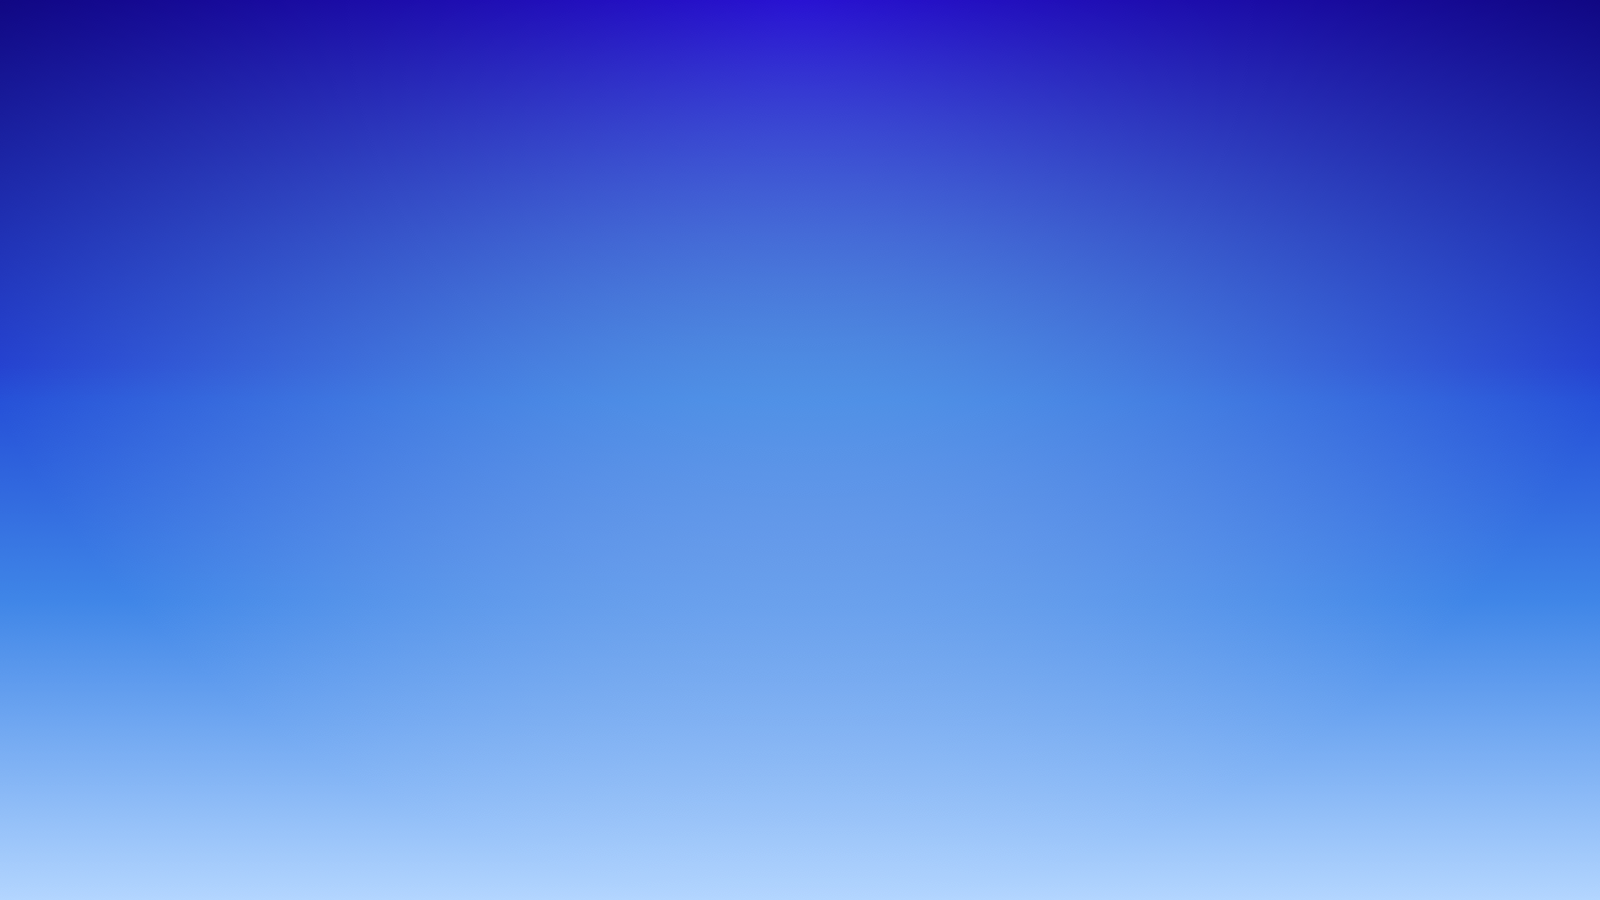
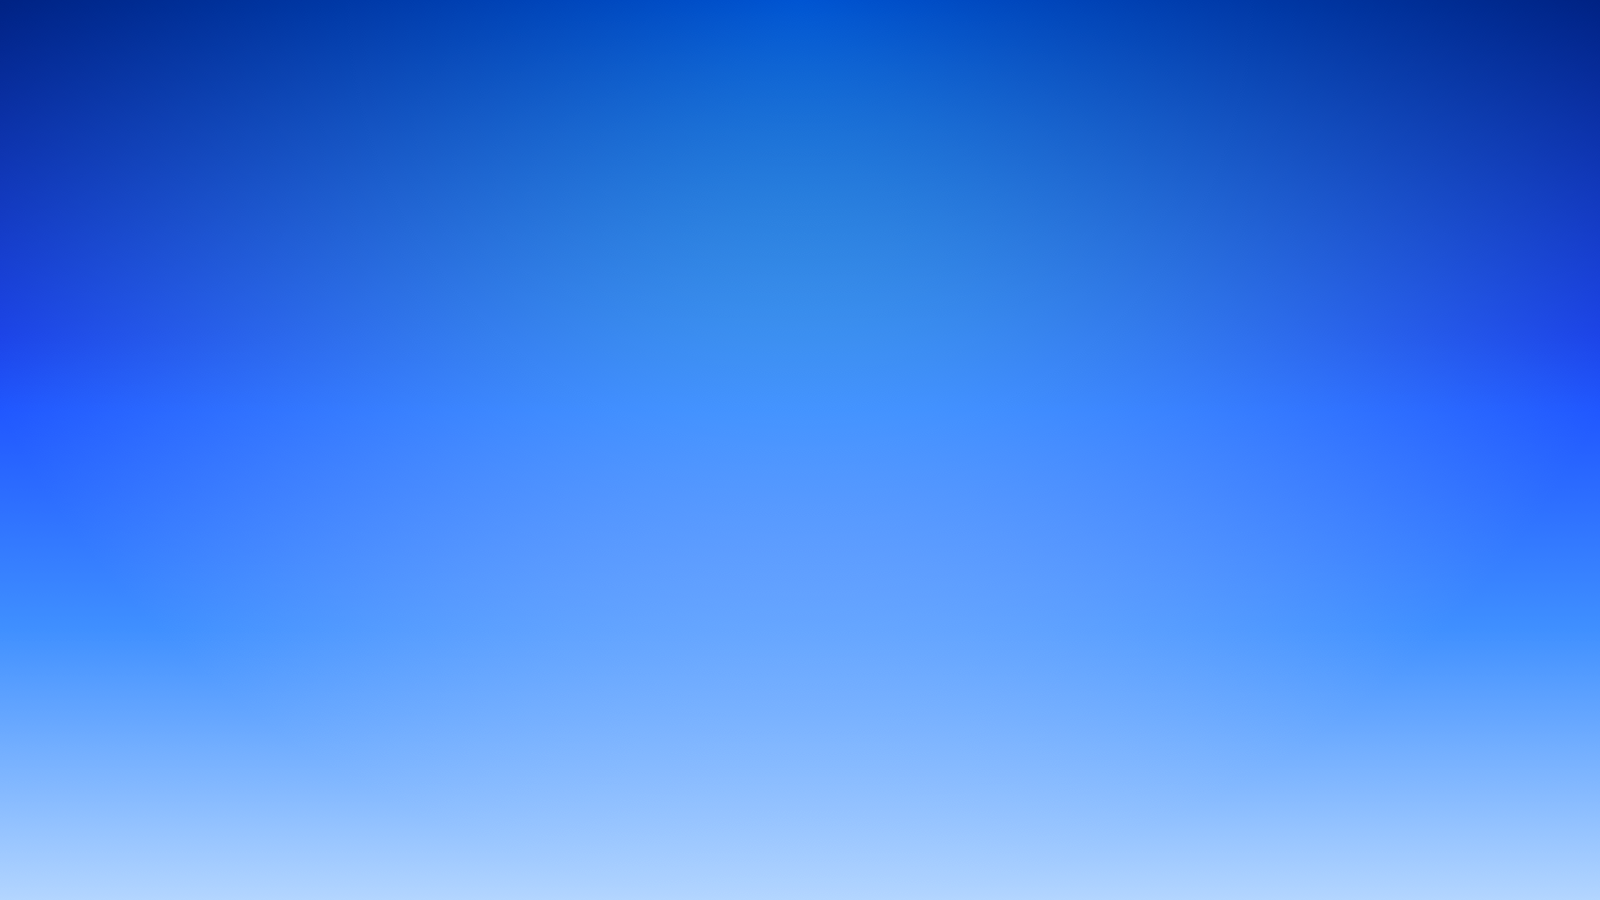
Update to the Sky

diff --git a/Website/css.css b/Website/css.css
@@ -21,6 +21,9 @@ body, html {
   height: 100%;
   min-width: 100%;
   min-height: 100%;
+  /**/
+  max-height: 100%;
+  overflow: hidden;
   font-size: 16px; }
 
 /*--------------------------------------------------
@@ -108,83 +111,63 @@ body, html {
 /*--------------------------------------------------
 	Falling Dodge
 --------------------------------------------------*/
+body {
+  background-image: -o-linear-gradient(89deg, #cde4ff 0%, #457dcc 54%, #1b0da7 100%);
+  background-image: -moz-linear-gradient(89deg, #cde4ff 0%, #457dcc 54%, #1b0da7 100%);
+  background-image: -ms-linear-gradient(89deg, #cde4ff 0%, #457dcc 54%, #1b0da7 100%);
+  background-image: linear-gradient(-1deg, #cde4ff 0%, #457dcc 54%, #1b0da7 100%); }
+
 .container {
-  min-height: 100%;
-  min-width: 100%;
-  background-image: url("img/Sky.png");
-  background-position: center;
-  background-size: cover;
-  /*
-  	.blue-back {
-  		position: absolute;
-  		font-size: 0;
-  		display: inline-block;
-  
-  		width: 100%;
-  		height: 100%;
-  		background-image: -o-linear-gradient(89deg, #CDE4FF 0%, #4C8BE5 55%, #1B0DA7 100%);
-  		background-image: -moz-linear-gradient(89deg, #CDE4FF 0%, #4C8BE5 55%, #1B0DA7 100%);
-  		background-image: -ms-linear-gradient(89deg, #CDE4FF 0%, #4C8BE5 55%, #1B0DA7 100%);
-  		background-image: linear-gradient(-1deg, #CDE4FF 0%, #4C8BE5 55%, #1B0DA7 100%);
-  	}
-  	.gray-back {
-  		position: absolute;
-  		font-size: 0;
-  		display: inline-block;
-  
-  		width: 100%;
-  		height: 100%;
-  		background-image: -o-radial-gradient(50% 100%, rgba(255,255,255,0.50) 0%, rgba(0,0,0,0.50) 100%);
-  		background-image: -moz-radial-gradient(50% 100%, rgba(255,255,255,0.50) 0%, rgba(0,0,0,0.50) 100%);
-  		background-image: -ms-radial-gradient(50% 100%, rgba(255,255,255,0.50) 0%, rgba(0,0,0,0.50) 100%);
-  		background-image: radial-gradient(50% 100%, rgba(255,255,255,0.50) 0%, rgba(0,0,0,0.50) 100%);
-  		@include opacity(0.5);
-  	}
-  */ }
-  .container .logo {
+  display: block;
+  z-index: 1;
+  height: 100%;
+  width: 100%;
+  overflow: scroll; }
+  .container .main-content {
     display: block;
-    width: 512px;
-    margin: 0 auto; }
-  .container .super-title {
+    position: relative;
+    z-index: 100;
+    height: 100%;
+    width: 100%;
+    min-width: 100%;
+    min-height: 100%; }
+    .container .main-content .logo {
+      display: block;
+      min-width: 256px;
+      width: 40%;
+      max-width: 512px;
+      margin: 0 auto; }
+    .container .main-content .super-title {
+      display: block;
+      margin-top: -40px;
+      font-family: "open sans", "Lato", "Segoe UI", sans-serif;
+      font-weight: 300;
+      font-size: 24px;
+      color: #f7f7f7;
+      text-align: center; }
+    .container .main-content .super-description {
+      display: block;
+      margin-top: 18px;
+      font-family: "open sans", "Lato", "Segoe UI", sans-serif;
+      font-weight: 300;
+      font-size: 18px;
+      color: #f7f7f7;
+      text-align: center; }
+  .container .trailer {
     display: block;
-    margin-top: -40px;
-    font-family: "Lato", "Segoe UI", sans-serif;
-    font-weight: 300;
-    font-size: 36px;
-    color: #f7f7f7;
-    text-align: center; }
-  .container .super-description {
-    display: block;
-    margin-top: 32px;
-    font-family: "Lato", "Segoe UI", sans-serif;
-    font-weight: 300;
-    font-size: 26px;
-    color: #f7f7f7;
-    text-align: center; }
+    margin: 82px auto;
+    width: 640px;
+    height: 360px;
+    background-color: #252525; }
   .container .about {
     display: block;
     margin-top: 2rem;
-    font-family: "Lato", "Segoe UI", sans-serif;
+    font-family: "open sans", "Lato", "Segoe UI", sans-serif;
     font-size: 1.25rem;
     font-weight: 300;
     color: #f7f7f7;
     text-align: center; }
     .container .about a {
-      color: #00BFFF;
+      color: #FFCC7A;
+      text-shadow: 0 1px 2px #478ED6;
       text-decoration: underline; }
-
-.container:before {
-  content: "";
-  position: absolute;
-  display: block;
-  width: 100%;
-  height: 100%;
-  background-image: url("img/Stars.png");
-  background-size: 271px 120px;
-  background-repeat: repeat;
-  filter: alpha(opacity=0.5);
-  -moz-opacity: 0.5;
-  opacity: 0.5; }
-
-::selection {
-  background-color: transparent; }

diff --git a/Website/css.scss b/Website/css.scss
@@ -22,6 +22,11 @@ body, html {
 	height: 100%;
 	min-width: 100%;
 	min-height: 100%;
+
+	/**/
+	max-height: 100%;
+	overflow: hidden;
+
 	font-size: 16px;
 }
 
@@ -164,73 +169,88 @@ $content-max-width: 960px;
 /*--------------------------------------------------
 	Falling Dodge
 --------------------------------------------------*/
-$Lato: 'Lato', 'Segoe UI', sans-serif;
+$Lato: 'open sans', 'Lato', 'Segoe UI', sans-serif;
+
+
+
+body {
+
+background-image: -o-linear-gradient(89deg, #CDE4FF 0%, #457DCC 54%, #1B0DA7 100%);
+background-image: -moz-linear-gradient(89deg, #CDE4FF 0%, #457DCC 54%, #1B0DA7 100%);
+background-image: -ms-linear-gradient(89deg, #CDE4FF 0%, #457DCC 54%, #1B0DA7 100%);
+background-image: linear-gradient(-1deg, #CDE4FF 0%, #457DCC 54%, #1B0DA7 100%);
+
+}
+
 
 
 .container {
-	min-height: 100%;
-	min-width: 100%;
 
-	background-image: url('img/Sky.png');
-	background-position: center;
-	background-size: cover;
-/*
-	.blue-back {
-		position: absolute;
-		font-size: 0;
-		display: inline-block;
+	display: block;
+	z-index: 1;
 
-		width: 100%;
+	height: 100%;
+	width: 100%;
+
+	overflow: scroll;
+
+
+
+
+	.main-content {
+
+		display: block;
+		position: relative;
+		z-index: 100;
+
 		height: 100%;
-		background-image: -o-linear-gradient(89deg, #CDE4FF 0%, #4C8BE5 55%, #1B0DA7 100%);
-		background-image: -moz-linear-gradient(89deg, #CDE4FF 0%, #4C8BE5 55%, #1B0DA7 100%);
-		background-image: -ms-linear-gradient(89deg, #CDE4FF 0%, #4C8BE5 55%, #1B0DA7 100%);
-		background-image: linear-gradient(-1deg, #CDE4FF 0%, #4C8BE5 55%, #1B0DA7 100%);
-	}
-	.gray-back {
-		position: absolute;
-		font-size: 0;
-		display: inline-block;
-
 		width: 100%;
-		height: 100%;
-		background-image: -o-radial-gradient(50% 100%, rgba(255,255,255,0.50) 0%, rgba(0,0,0,0.50) 100%);
-		background-image: -moz-radial-gradient(50% 100%, rgba(255,255,255,0.50) 0%, rgba(0,0,0,0.50) 100%);
-		background-image: -ms-radial-gradient(50% 100%, rgba(255,255,255,0.50) 0%, rgba(0,0,0,0.50) 100%);
-		background-image: radial-gradient(50% 100%, rgba(255,255,255,0.50) 0%, rgba(0,0,0,0.50) 100%);
-		@include opacity(0.5);
+		min-width: 100%;
+		min-height: 100%;
+		
+		.logo {
+			display: block;
+			min-width: 256px;
+			width: 40%;
+			max-width: 512px;
+			margin: 0 auto;
+		}
+
+		.super-title {
+			display: block;
+			margin-top: -40px;
+
+			font-family: $Lato;
+			font-weight: 300;
+			font-size: 24px;
+			color: #f7f7f7;
+			text-align: center;
+		}
+		.super-description {
+			display: block;
+			margin-top: 18px;
+
+			font-family: $Lato;
+			font-weight: 300;
+			font-size: 18px;
+			color: #f7f7f7;
+			text-align: center;
+		}
 	}
-*/
 
 
-	.logo {
+
+
+
+	.trailer {
 		display: block;
-		width: 512px;
-		margin: 0 auto;
+		margin: 82px auto;
+
+		width: 640px;
+		height: 360px;
+
+		background-color: #252525;
 	}
-
-	.super-title {
-		display: block;
-		margin-top: -40px;
-
-		font-family: $Lato;
-		font-weight: 300;
-		font-size: 36px;
-		color: #f7f7f7;
-		text-align: center;
-	}
-	.super-description {
-		display: block;
-		margin-top: 32px;
-
-		font-family: $Lato;
-		font-weight: 300;
-		font-size: 26px;
-		color: #f7f7f7;
-		text-align: center;
-	}
-
-
 
 
 
@@ -251,34 +271,10 @@ $Lato: 'Lato', 'Segoe UI', sans-serif;
 		text-align: center;
 
 		a {
-			color: #00BFFF;
+			color: #FFCC7A;
+			text-shadow: 0 1px 2px #478ED6;
 			text-decoration: underline;
-		}
-		a:hover {
-
 		}
 	}
 }
 
-
-.container:before {
-	content: "";
-
-	position: absolute;
-	display: block;
-	width: 100%;
-	height: 100%;
-
-	background-image: url('img/Stars.png');
-	background-size: (542px)/2 (240px)/2;
-	background-repeat: repeat;
-
-	@include opacity(0.5);
-
-}
-
-
-
-::selection {
-	background-color: transparent;
-}

diff --git a/Website/index.html b/Website/index.html
@@ -6,31 +6,33 @@
 
 	<link rel="stylesheet" type="text/css" href="css.css">
 	<script type="text/javascript" src="http://code.jquery.com/jquery-2.1.1.min.js"></script>
+	<link href='http://fonts.googleapis.com/css?family=Open+Sans:300,400,700' rel='stylesheet' type='text/css'>
 </head>
 <body>
 
-<div class="container">
-	
-	<div class="blue-back"></div>
-	<div class="gray-back"></div>
+	<div class="container">
+		
+		<div class="main-content">
+			<img src="img/Main-Logo.png" class="logo">
+			<h1>
+				<span class="super-title">El mejor juego para tu dispositivo con Windows</span>
+				<span class="super-description">¡Ayúdanos a llevar a Sam con vida a casa!</span>
+			</h1>
+		</div>
 
-	<div class="main-content">
-		<img src="img/Main-Logo.png" class="logo">
-		<h1>
-			<span class="super-title">El mejor juego para tu dispositivo con Windows</span>
-			<span class="super-description">¡Ayúdanos a llevar a Sam con vida a casa!</span>
-		</h1>
+		<div class="trailer">
+			<img src="screens">
+		</div>
+
+		<div class="downloads">
+			<!-- <p>Descarga Falling Dodge</p> -->
+		</div>
+
+		<div class="about">
+			<p>Hecho por <a href="/">Antonio Feregrino</a> &amp; <a href="/">Julio Montaño</a></p>
+		</div>
+
 	</div>
-
-	<div class="downloads">
-		<p>Descarga Falling Dodge</p>
-	</div>
-
-	<div class="about">
-		<p>Hecho por <a href="">Antonio Feregrino</a> &amp; <a href="">Julio Montaño</a></p>
-	</div>
-
-</div>
 
 
 

diff --git a/Website/js.js b/Website/js.js
@@ -1,4 +1,5 @@
 $(document).ready(function () {
 	
 
+
 });
